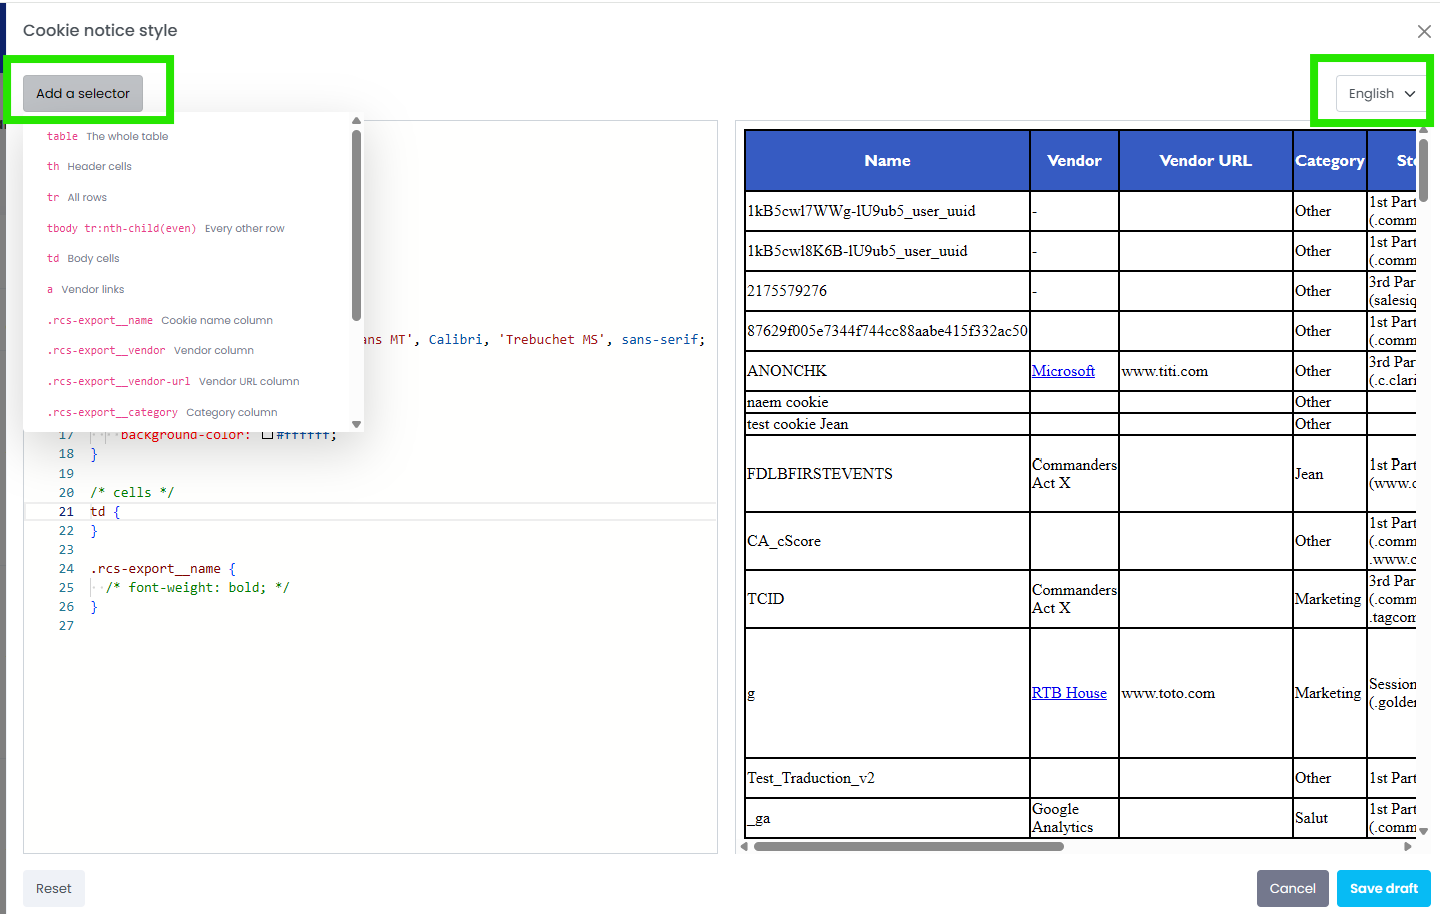
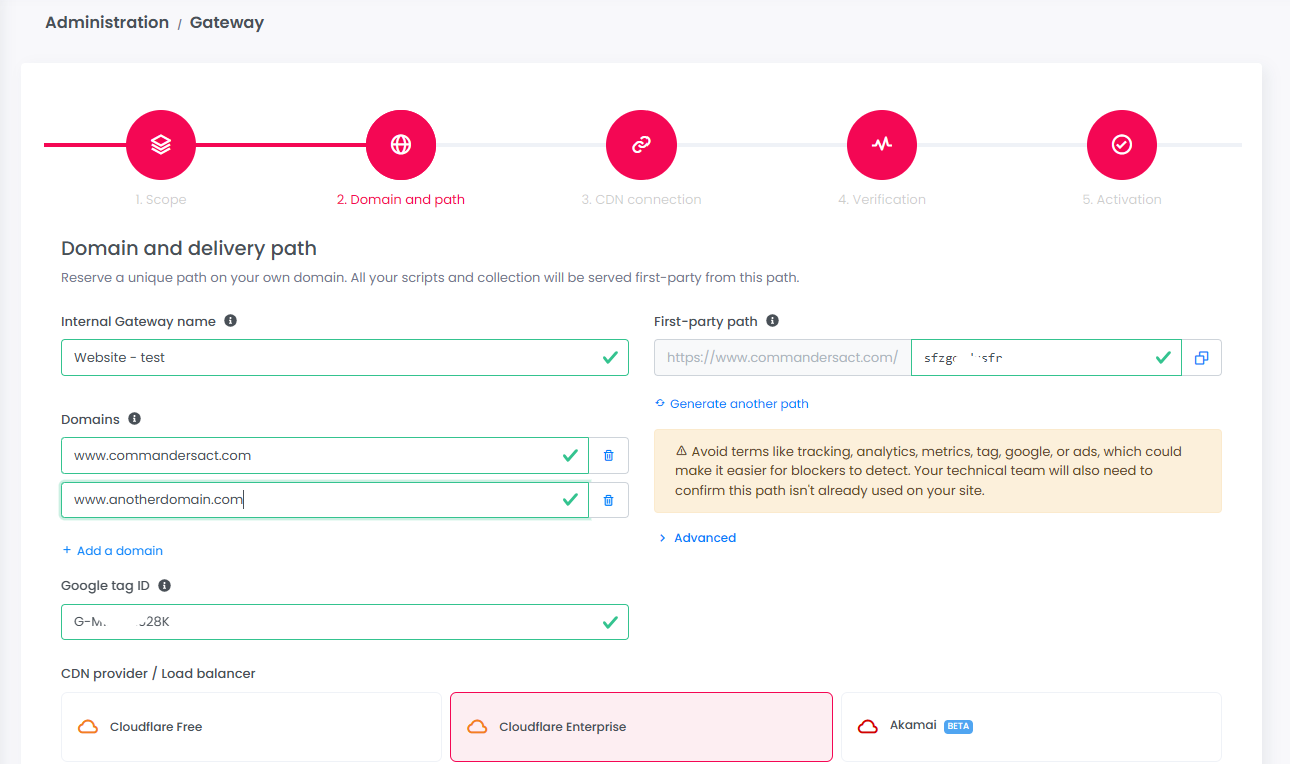
GITBOOK-2458: gateway image update

diff --git a/features/realtime-cookie-scanner/cookie-notice-manager.md b/features/realtime-cookie-scanner/cookie-notice-manager.md
@@ -38,7 +38,7 @@ Need to declare a new domain, or add a new language?
 
 You can do it directly in the "settings" menu
 
-<figure><img src="../../.gitbook/assets/image (646).png" alt=""><figcaption></figcaption></figure>
+<figure><img src="../../.gitbook/assets/image (644).png" alt=""><figcaption></figcaption></figure>
 
 Our tool can detect automatically all your subdomains if needed, simply use the "\*" in your domain declaration
 
@@ -50,7 +50,7 @@ If you prefer to collect only for some specific sub domains, you have to declare
 
 example:
 
-<figure><img src="../../.gitbook/assets/image (649).png" alt=""><figcaption></figcaption></figure>
+<figure><img src="../../.gitbook/assets/image (648).png" alt=""><figcaption></figcaption></figure>
 
 ### Custom Fields & Filters
 
@@ -325,7 +325,7 @@ The **Cookie notice style** editor lets you add your own CSS to the cookie notic
 * Syntax errors are underlined in red and block saving. Always check the preview: valid CSS can still hide text.
 
 {% hint style="info" %}
-The stylesheet is empty by default, so existing cookie notices are not affected. Your styles apply from the next version you deploy.&#x20;
+The stylesheet is empty by default, so existing cookie notices are not affected. Your styles apply from the next version you deploy.
 {% endhint %}
 
 Click the "Configuration" button to enter in the menu

diff --git a/features/realtime-cookie-scanner/getting-started.md b/features/realtime-cookie-scanner/getting-started.md
@@ -10,8 +10,6 @@ In all cases, your consultant (or our support team) needs to activate the featur
 
 Go on the "Settings" page
 
-
-
 OR
 
 On the "Cookie Notice" page, click on gear icon (top right) to open the settings panel
@@ -22,7 +20,7 @@ On the "Cookie Notice" page, click on gear icon (top right) to open the settings
 * Enter your website(s) domain(s)
 * Save your config
 
-<figure><img src="../../.gitbook/assets/image (645).png" alt=""><figcaption></figcaption></figure>
+<figure><img src="../../.gitbook/assets/image (644).png" alt=""><figcaption></figcaption></figure>
 
 {% hint style="info" %}
 Needs to collect cookies from your subdomains?

diff --git a/developers/commanders-tag-gateway/manage-your-gateway.md b/developers/commanders-tag-gateway/manage-your-gateway.md
@@ -42,7 +42,7 @@ Then choose who handles the CDN: **I have the access**, or **I will hand this of
 
 #### Step 2 · Domain and path
 
-<figure><img src="../../.gitbook/assets/image (639).png" alt=""><figcaption></figcaption></figure>
+<figure><img src="../../.gitbook/assets/image (620).png" alt=""><figcaption></figcaption></figure>
 
 Fill in the information needed to reserve your first-party path:
 
